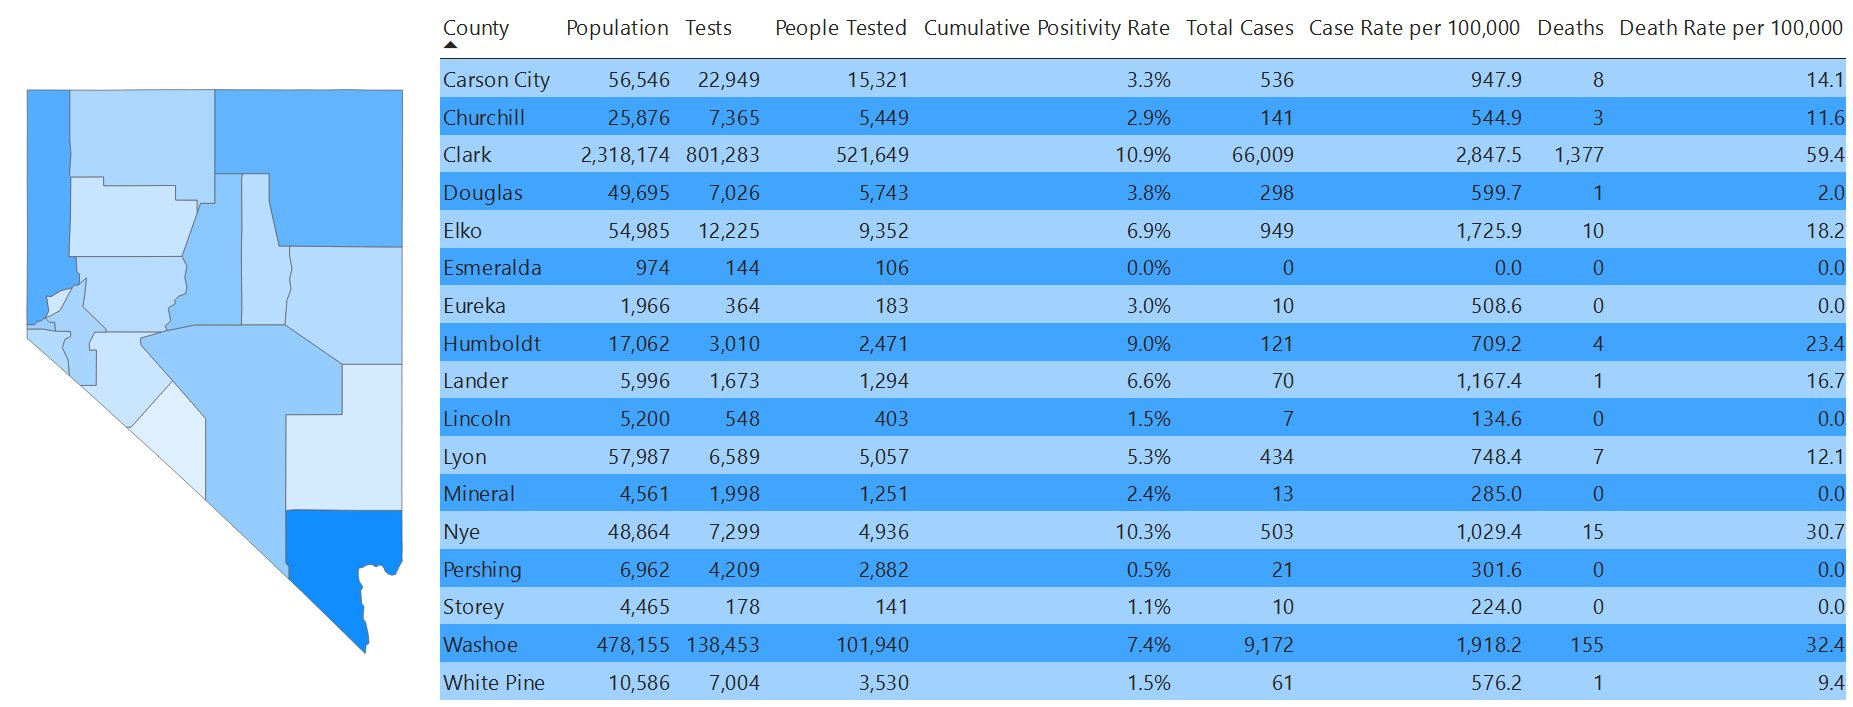
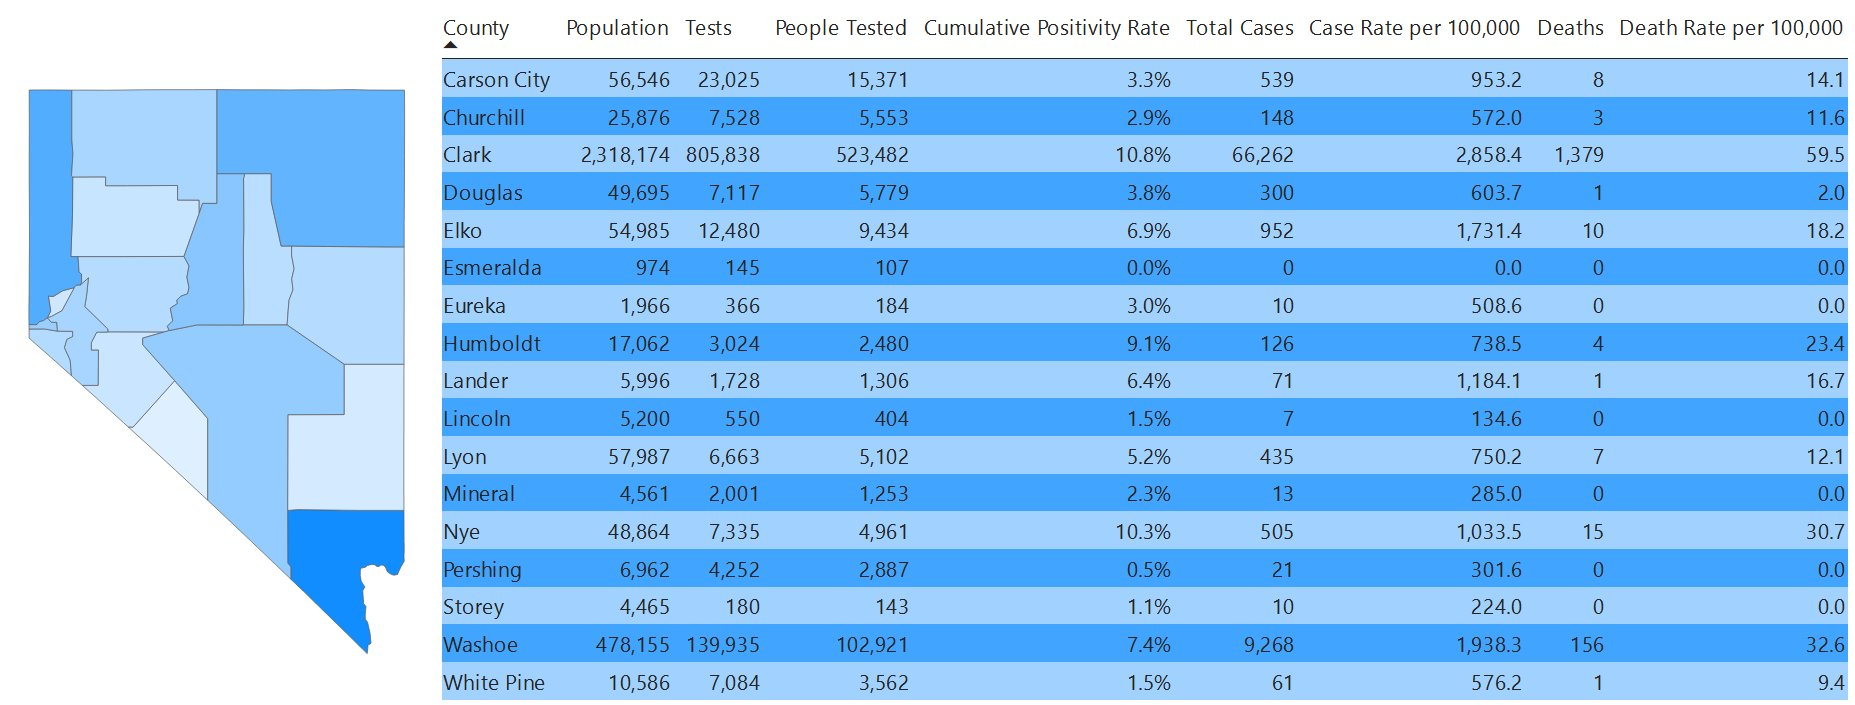
Day 207

diff --git a/src/pages/clarkcounty.js b/src/pages/clarkcounty.js
@@ -223,6 +223,7 @@ class ClarkPage extends Component {
 				'9/23/20',
 				'9/24/20',
 				'9/25/20',
+				'9/26/20',
 			],
 			datasets: [
 				{
@@ -435,6 +436,7 @@ class ClarkPage extends Component {
 						65174,
 						65583,
 						66008,
+						66262,
 					],
 				},
 			],
@@ -648,6 +650,7 @@ class ClarkPage extends Component {
 				'9/23/20',
 				'9/24/20',
 				'9/25/20',
+				'9/26/20',
 			],
 			datasets: [
 				{
@@ -860,6 +863,7 @@ class ClarkPage extends Component {
 						279,
 						409,
 						425,
+						254,
 					],
 				},
 			],
@@ -1053,6 +1057,7 @@ class ClarkPage extends Component {
 				'9/23/20',
 				'9/24/20',
 				'9/25/20',
+				'9/26/20',
 			],
 			datasets: [
 				{
@@ -1245,6 +1250,7 @@ class ClarkPage extends Component {
 						6125,
 						6179,
 						6231,
+						6245,
 					],
 				},
 			],
@@ -1437,6 +1443,7 @@ class ClarkPage extends Component {
 				'9/23/20',
 				'9/24/20',
 				'9/25/20',
+				'9/26/20',
 			],
 			datasets: [
 				{
@@ -1629,6 +1636,7 @@ class ClarkPage extends Component {
 						54,
 						54,
 						52,
+						14,
 					],
 				},
 			],
@@ -1842,6 +1850,7 @@ class ClarkPage extends Component {
 				'9/23/20',
 				'9/24/20',
 				'9/25/20',
+				'9/26/20',
 			],
 			datasets: [
 				{
@@ -2053,6 +2062,7 @@ class ClarkPage extends Component {
 						1360,
 						1368,
 						1377,
+						1379,
 					],
 					backgroundColor: 'maroon',
 				},
@@ -2255,6 +2265,7 @@ class ClarkPage extends Component {
 				'9/23/20',
 				'9/24/20',
 				'9/25/20',
+				'9/26/20',
 			],
 			datasets: [
 				{
@@ -2455,6 +2466,7 @@ class ClarkPage extends Component {
 						7,
 						8,
 						9,
+						2,
 					],
 				},
 			],
@@ -2668,6 +2680,7 @@ class ClarkPage extends Component {
 				'9/23/20',
 				'9/24/20',
 				'9/25/20',
+				'9/26/20',
 			],
 			datasets: [
 				{
@@ -2877,10 +2890,9 @@ class ClarkPage extends Component {
 						7.1,
 						7.3,
 						7.5,
-						7.9,
+						7.8,
 						7.9,
 						8.1,
-						8.5,
 						null,
 						null,
 						null,
@@ -2959,6 +2971,7 @@ class ClarkPage extends Component {
 						null,
 						null,
 						null,
+						6.9,
 						6.9,
 						6.9,
 						6.9,
@@ -3315,6 +3328,7 @@ class ClarkPage extends Component {
 						3.9,
 						3.9,
 						3.9,
+						3.9,
 					],
 				},
 			],
@@ -3385,8 +3399,8 @@ class ClarkPage extends Component {
 											</div>
 										</div>
 										<div className='card-value pt-4'>
-											<h1>66,008</h1>
-											<h2 className='is_salmon'>+ 425</h2>
+											<h1>66,262</h1>
+											<h2 className='is_salmon'>+ 254</h2>
 										</div>
 									</div>
 								</div>
@@ -3398,8 +3412,8 @@ class ClarkPage extends Component {
 											</div>
 										</div>
 										<div className='card-value pt-4'>
-											<h1>6,231</h1>
-											<h2 className='is_salmon'>+ 52</h2>
+											<h1>6,245</h1>
+											<h2 className='is_salmon'>+ 14</h2>
 										</div>
 									</div>
 								</div>
@@ -3412,7 +3426,7 @@ class ClarkPage extends Component {
 										</div>
 										<div className='card-value pt-4'>
 											<h1>92.2%</h1>
-											<h2 className='is_salmon'>- 0.2%</h2>
+											<h2 className='is_salmon'>- 0.0%</h2>
 										</div>
 									</div>
 								</div>
@@ -3424,8 +3438,8 @@ class ClarkPage extends Component {
 											</div>
 										</div>
 										<div className='card-value pt-4'>
-											<h1>1,377</h1>
-											<h2 className='is_salmon'>+ 9</h2>
+											<h1>1,379</h1>
+											<h2 className='is_salmon'>+ 2</h2>
 										</div>
 									</div>
 								</div>

diff --git a/src/pages/nevada.js b/src/pages/nevada.js
@@ -221,6 +221,7 @@ class NevadaPage extends Component {
 				'9/23/20',
 				'9/24/20',
 				'9/25/20',
+				'9/26/20',
 			],
 			datasets: [
 				{
@@ -432,6 +433,7 @@ class NevadaPage extends Component {
 						77197,
 						77753,
 						78355,
+						78728,
 					],
 					fill: false, // Don't fill area under the line
 					backgroundColor: '#933A16', // Line color
@@ -646,6 +648,7 @@ class NevadaPage extends Component {
 				'9/23/20',
 				'9/24/20',
 				'9/25/20',
+				'9/26/20',
 			],
 			datasets: [
 				{
@@ -858,6 +861,7 @@ class NevadaPage extends Component {
 						390,
 						556,
 						602,
+						373,
 					],
 					fill: false, // Don't fill area under the line
 					backgroundColor: '#933A16', // Bar color
@@ -1072,6 +1076,7 @@ class NevadaPage extends Component {
 				'9/23/20',
 				'9/24/20',
 				'9/25/20',
+				'9/26/20',
 			],
 			datasets: [
 				{
@@ -1283,6 +1288,7 @@ class NevadaPage extends Component {
 						1574,
 						1579,
 						1579,
+						1580,
 					],
 					backgroundColor: 'maroon',
 				},
@@ -1485,6 +1491,7 @@ class NevadaPage extends Component {
 				'9/23/20',
 				'9/24/20',
 				'9/25/20',
+				'9/26/20',
 			],
 			datasets: [
 				{
@@ -1685,6 +1692,7 @@ class NevadaPage extends Component {
 						6,
 						5,
 						0,
+						1,
 					],
 				},
 			],
@@ -1898,6 +1906,7 @@ class NevadaPage extends Component {
 				'9/23/20',
 				'9/24/20',
 				'9/25/20',
+				'9/26/20',
 			],
 			datasets: [
 				{
@@ -2105,6 +2114,7 @@ class NevadaPage extends Component {
 						10.0,
 						10.0,
 						10.0,
+						9.9,
 						9.9,
 						9.9,
 						9.9,
@@ -2321,10 +2331,11 @@ class NevadaPage extends Component {
 						6.6,
 						6.6,
 						6.7,
-						6.9,
-						6.9,
+						7.0,
+						7.0,
 						7.4,
-						7.8,
+						7.6,
+						7.5,
 						null,
 					],
 				},
@@ -2402,6 +2413,7 @@ class NevadaPage extends Component {
 						null,
 						null,
 						null,
+						11.0,
 						11.0,
 						11.0,
 						11.0,
@@ -2756,6 +2768,7 @@ class NevadaPage extends Component {
 						6.1,
 						6.1,
 						6.1,
+						6.1,
 					],
 				},
 			],
@@ -2791,8 +2804,8 @@ class NevadaPage extends Component {
 										</div>
 									</div>
 									<div className='card-value pt-4'>
-										<h1>684,796</h1>
-										<h2 className='is_salmon'>+ 4,316</h2>
+										<h1>688,073</h1>
+										<h2 className='is_salmon'>+ 3,277</h2>
 									</div>
 								</div>
 							</div>
@@ -2804,8 +2817,8 @@ class NevadaPage extends Component {
 										</div>
 									</div>
 									<div className='card-value pt-4'>
-										<h1>607,323</h1>
-										<h2 className='is_salmon'>+ 3,740</h2>
+										<h1>610,228</h1>
+										<h2 className='is_salmon'>+ 2,905</h2>
 									</div>
 								</div>
 							</div>
@@ -2817,8 +2830,8 @@ class NevadaPage extends Component {
 										</div>
 									</div>
 									<div className='card-value pt-4'>
-										<h1>78,355</h1>
-										<h2 className='is_salmon'>+ 602</h2>
+										<h1>78,728</h1>
+										<h2 className='is_salmon'>+ 373</h2>
 									</div>
 								</div>
 							</div>
@@ -2830,8 +2843,8 @@ class NevadaPage extends Component {
 										</div>
 									</div>
 									<div className='card-value pt-4'>
-										<h1>1,579</h1>
-										<h2 className='is_salmon'>+ 9</h2>
+										<h1>1,580</h1>
+										<h2 className='is_salmon'>+ 3</h2>
 									</div>
 								</div>
 							</div>
